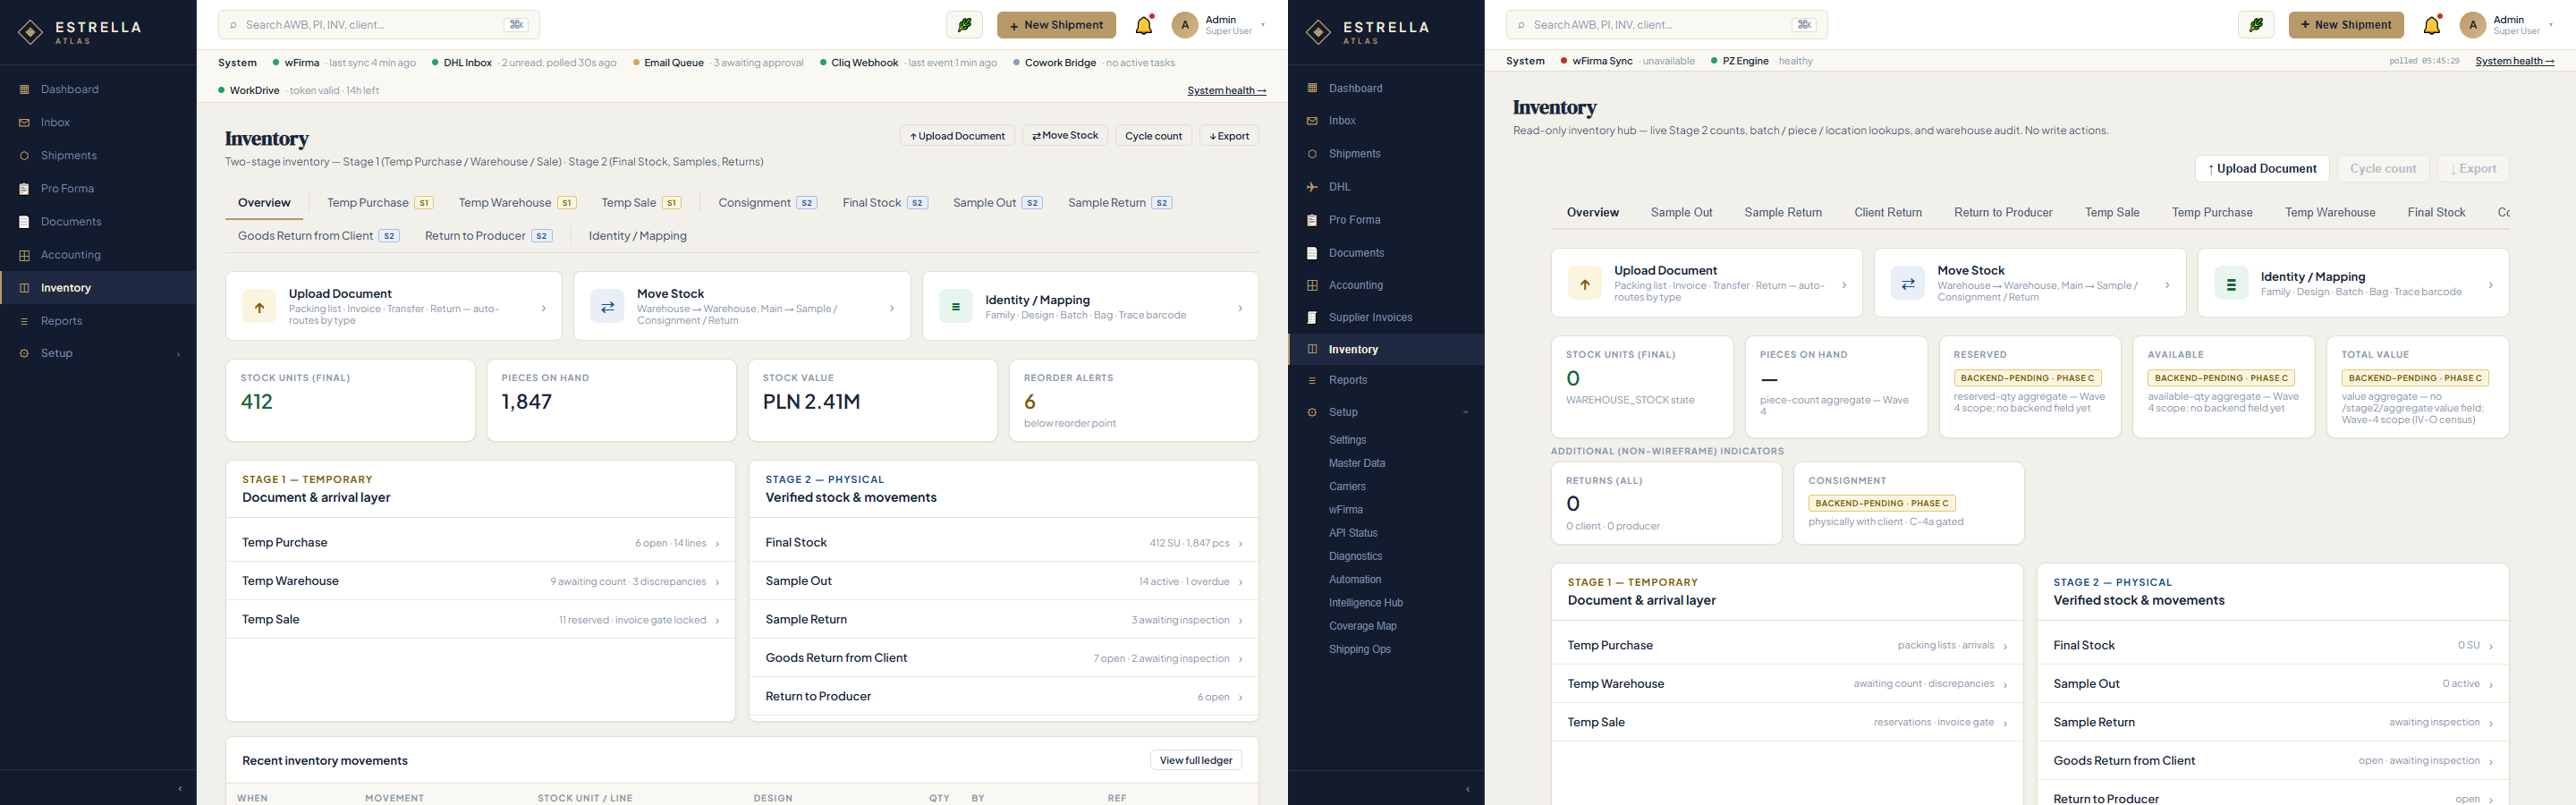
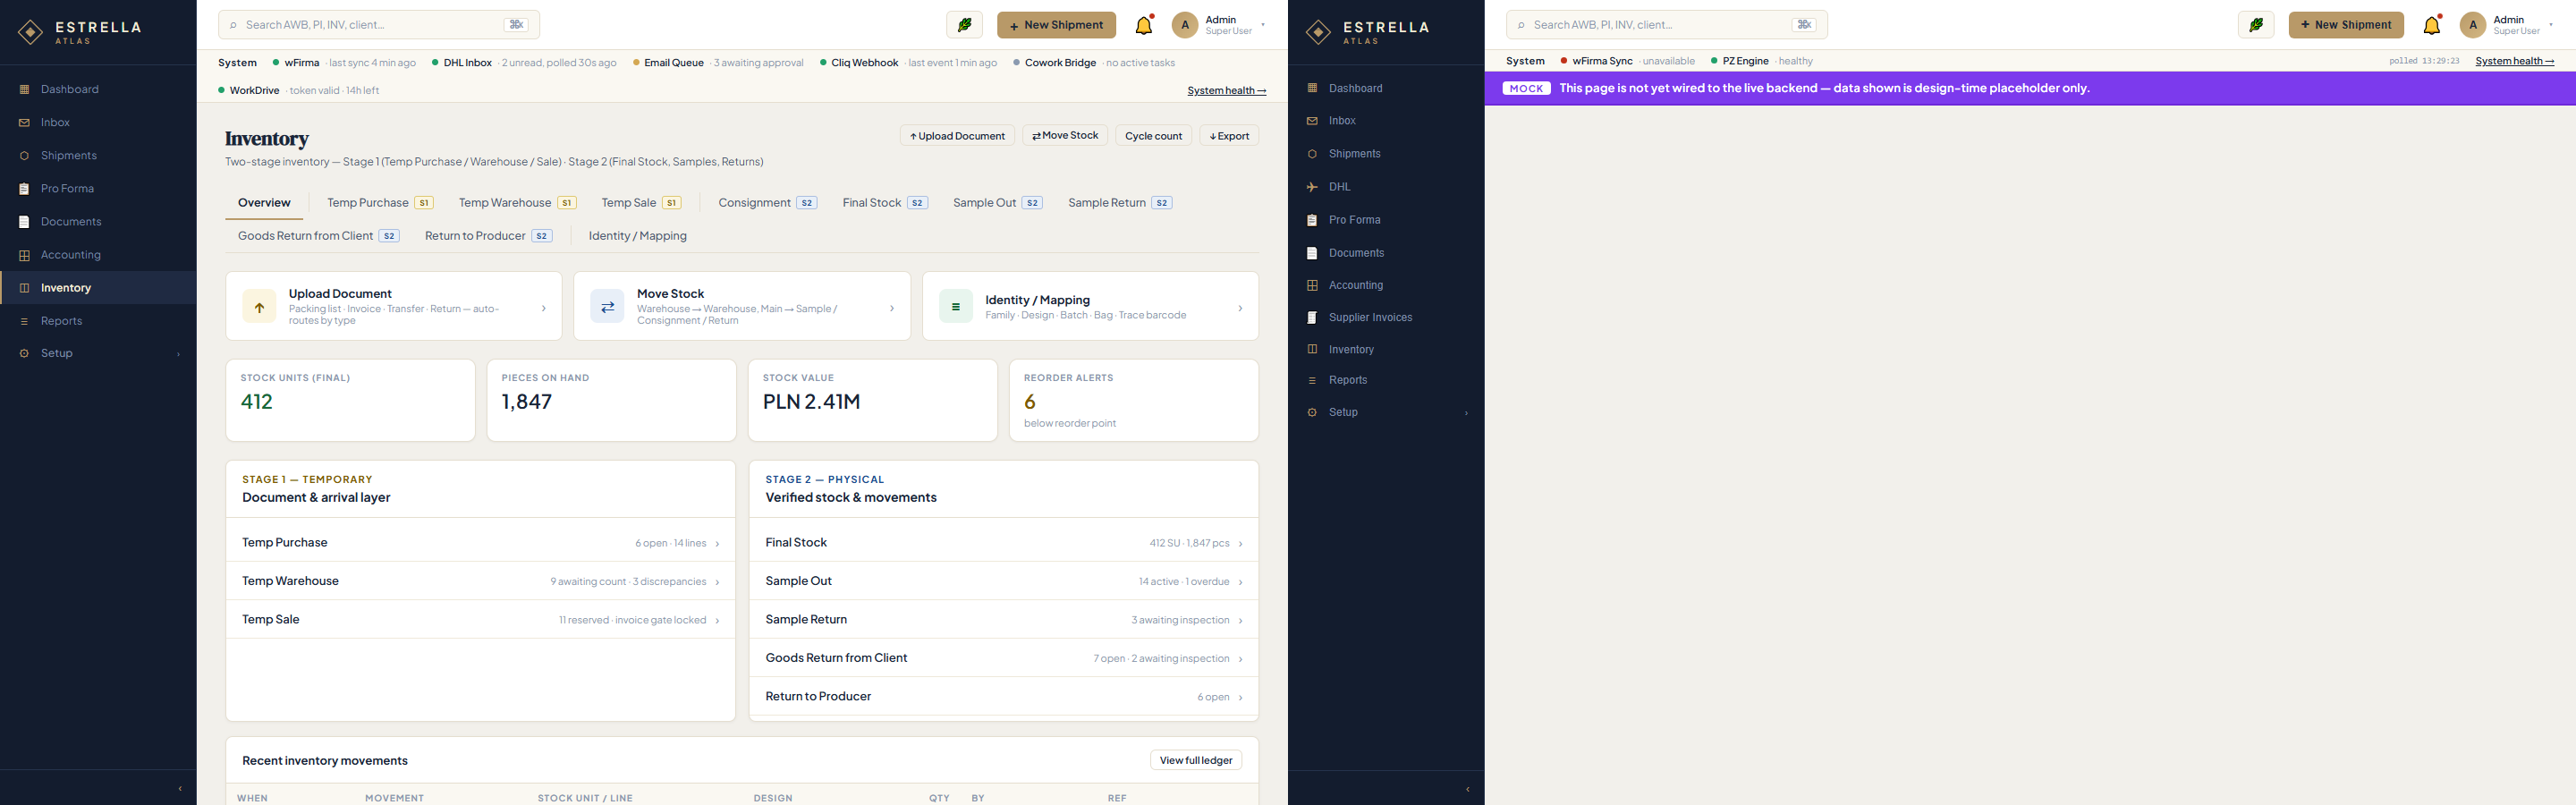
docs(w3-cp3): Defect #002 CLOSED — Inventory Export fix verified (Preview + console + 11-tab re-walk + pair-08 regenerated); review URL -> 60991

diff --git a/reports/wave3/cp3/defect-ledger.md b/reports/wave3/cp3/defect-ledger.md
@@ -86,6 +86,22 @@ visual-polish phase.
 
 ## Defects
 
+### Defect #002
+- **Page:** Inventory
+- **Control:** Header "↓ Export" button
+- **Severity:** High (2) · **Class:** INTERACTION
+- **Expected:** Export the currently filtered rows of the active tab.
+- **Actual:** The Export button "doesn't do anything" — it was `disabled` whenever the active tab had no loaded rows, so clicking produced no response and no feedback.
+- **Screenshot:** operator-provided (Inventory header); reproduced on Preview.
+- **Root cause:** The header Export was `disabled = !exportMeta || TABS_WITH_NO_TABLE.includes(activeTab)`. Disabled on the Overview landing tab always, and on every data tab until records load (empty in dev / before a batch is loaded). A disabled `<button>` fires no `onClick`, so it read as broken with no explanation. The CSV path (`exportCsv`) and filter handling were already correct (register tabs filter server-side; the reported rows are the filtered set).
+- **Fix:** Export is always clickable. With loaded rows → downloads the filtered CSV (unchanged path). With none → renders an inline `inv-hdr-export-hint` message naming exactly what to do (open a data tab / load records), so the action always produces a visible response. Muted styling stays as a "nothing to export yet" cue. No wireframe redesign — the header Export control is preserved and made functional. Commit `4f6d75e5` (`service/app/static/v2/inventory-page.jsx`).
+- **Verification checklist:**
+  - Behavior in Preview (localhost:60991): ✅ button enabled (cursor pointer) on Overview + Sample Out; both hint variants render on click; re-walked all 11 tabs — Export present + responsive on each.
+  - No related console errors: ✅ (clean across the tab walk).
+  - Wireframe match holds: ✅ header Export control present per wireframe; inline hint is interaction feedback, not a layout change.
+  - Affected CP3 screenshot regenerated: ✅ `pair-08-inventory.png` live-right refreshed.
+- **Status:** CLOSED (commit `4f6d75e5`; no regression on the Inventory page — all 11 tabs re-walked clean).
+
 ### Defect #001
 - **Page:** Global shell
 - **Control:** Navigation / header icons

diff --git a/reports/wave3/cp3/operator-review-map.md b/reports/wave3/cp3/operator-review-map.md
@@ -1,6 +1,6 @@
 # Wave-3 CP3 — Operator Live-Review Map
 
-**Server:** http://localhost:54494/v2/index.html (Preview-managed; hash-routed SPA — `#/<slug>`).
+**Server:** http://localhost:60991/v2/index.html (Preview-managed; hash-routed SPA — `#/<slug>`).
 > **NOTE (2026-07-04):** port 8135 is held by a kernel zombie socket (dead PID
 > 27036, left by a CP3 harness run — cannot be force-cleared from user space,
 > self-reaps or clears on reboot). The IDENTICAL live UI is served Preview-